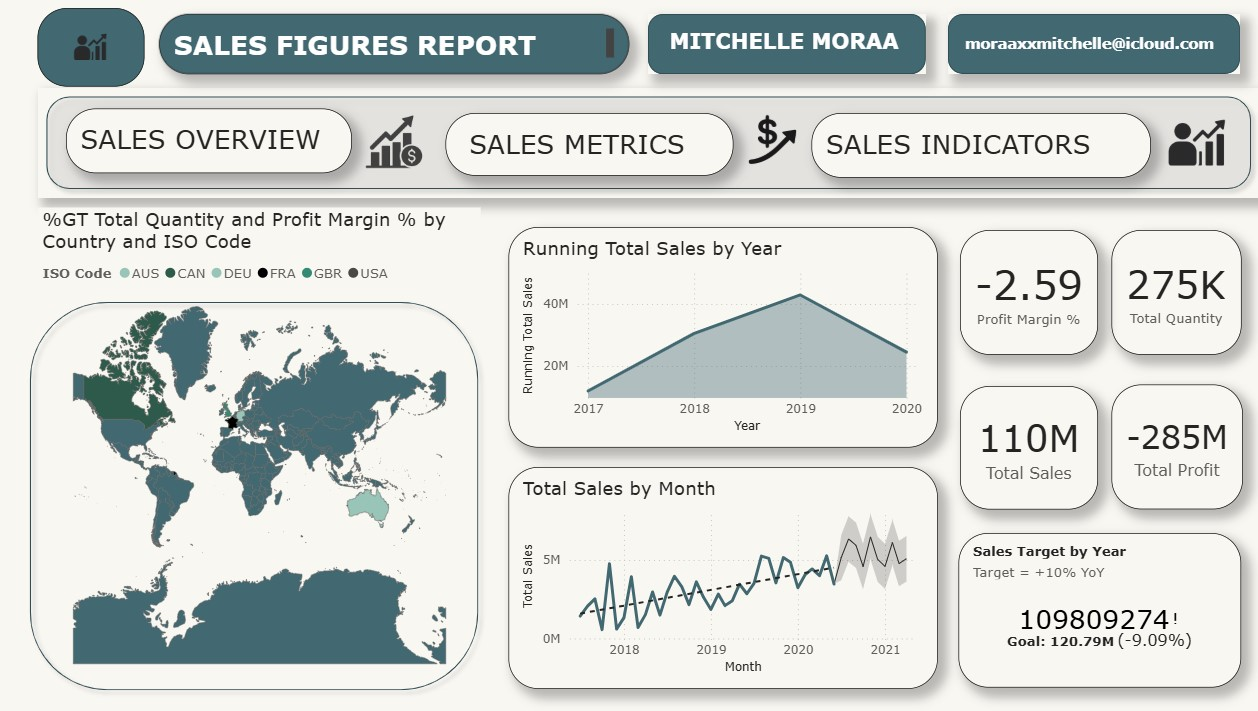
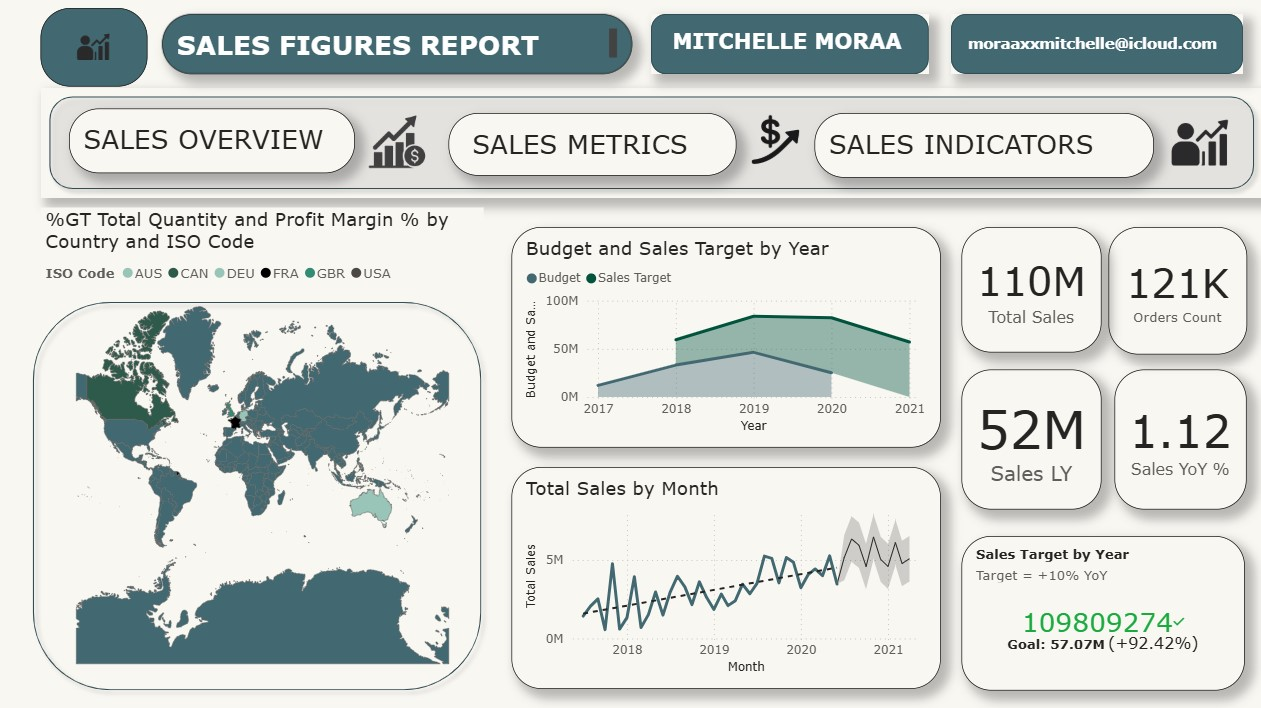
Updated README.md

diff --git a/README_TEMPLATE.md b/README_TEMPLATE.md
@@ -97,7 +97,7 @@
    ![Star Schema 3](Screenshots/ModelView/StarSchema3.jpg)
 
 
- Visualizations:
+ __Visualizations:__
 
    This project includes a suite of Power BI dashboards designed to provide actionable insights into customer behavior, product performance, and overall sales trends. Each dashboard integrates dynamic visualizations with data models to support data-driven decision-making.
 
@@ -143,7 +143,7 @@
    - Global Sales Distribution by Country (ISO Code)
    - Running Total Sales by Year and Month
 
-   VisualsGallery
+  __VisualsGallery__
  
    <p align="center">
     <img src="Screenshots/VisualsGallery/BarChartTop7Products.jpg" width="250" style="margin-right:15px"/>
@@ -164,7 +164,7 @@
    </p>
 
  
-  Report Pages
+  __Report Pages__
 
    ![Customer Insights](Screenshots/ReportPages/CustomerInsights.jpg)
 
@@ -173,7 +173,7 @@
    ![Sales Overview](Screenshots/ReportPages/SalesOverview.jpg)
 
  
-  Dashboard
+  __Dashboard__
 
    <p align="center">
     <img src="Screenshots/DASHBOARD/001.jpg" width="250"/>
@@ -200,7 +200,7 @@
    **RLS Rule (DAX):**
 
    [CountryCode] = "FRA" || [CountryCode] = "DEU"
-   ### 1. Europe Manager
+   ### 2. USA Manager
 
    **Role Name:** `US Manager`  
    **Access Scope:** Data related to United States markets
@@ -220,39 +220,39 @@
 
  __Key Insights__
 
-   Electronics account for ~38% of total sales, but only ~25% of overall profit, suggesting opportunities for pricing or cost optimization.
+   - Electronics account for ~38% of total sales, but only ~25% of overall profit, suggesting opportunities for pricing or cost optimization.
 
-   Bikes and Accessories, while smaller in sales volume (~15–20%), contribute disproportionately to profit (~30%), indicating high-margin opportunities.
+   - Bikes and Accessories, while smaller in sales volume (~15–20%), contribute disproportionately to profit (~30%), indicating high-margin opportunities.
 
-   Products with low sales but high profit margins can be prioritized for targeted marketing.
+   - Products with low sales but high profit margins can be prioritized for targeted marketing.
 
-   60% of customers are concentrated in just 3–4 states, highlighting potential for geographic expansion.
+   - 60% of customers are concentrated in just 3–4 states, highlighting potential for geographic expansion.
 
-   High-value customers (annual purchases > $10k) represent ~8–10% of the customer base but generate ~35% of total revenue, this shows that targeting high-value customers is more effective than increasing low-value customer volume.
+   - High-value customers (annual purchases > $10k) represent ~8–10% of the customer base but generate ~35% of total revenue, this shows that targeting high-value customers is more effective than increasing low-value customer volume.
 
-   Low-value customers show a slight decline (~3% YoY), signaling a need for retention strategies.
+   - Low-value customers show a slight decline (~3% YoY), signaling a need for retention strategies.
 
-   Peak sales occur in Q4 (Nov–Dec) and mid-year (July–August).
+   - Peak sales occur in Q4 (Nov–Dec) and mid-year (July–August).
 
-   Discounts and promotions drive temporary spikes in revenue, but often reduce profit margins.
+   - Discounts and promotions drive temporary spikes in revenue, but often reduce profit margins.
 
-   Electronics are typically purchased in single-item orders, while Bikes and Accessories often include multiple items per order.
+   - Electronics are typically purchased in single-item orders, while Bikes and Accessories often include multiple items per order.
 
-   Large-value orders with few items suggest premium product purchases
+   - Large-value orders with few items suggest premium product purchases
 
  __Challenges & Solutions__
 
-   Challenge: Complex KPI calculations
-   Solution: Used DAX time intelligence functions 
+   __Challenge__: Complex KPI calculations
+   __Solution__: Used DAX time intelligence functions 
 
-   Challenge: Category hierarchy gaps
-   Solution: Filled missing subcategories via reference table
+   __Challenge__: Category hierarchy gaps
+   __Solution__: Filled missing subcategories via reference table
 
-   Challenge: Performance with large fact table
-   Solution: Replaced calculated columns with measures
+   __Challenge__: Performance with large fact table
+   __Solution__: Replaced calculated columns with measures
 
-   Challenge: Handling nulls in customer demographic data
-   Solution: Imputed missing values with defaults or categorized as “Unknown” to maintain analysis integrity
+   __Challenge__: Handling nulls in customer demographic data
+   __Solution__: Imputed missing values with defaults or categorized as “Unknown” to maintain analysis integrity
 
  __Assumptions & Limitations__
 
